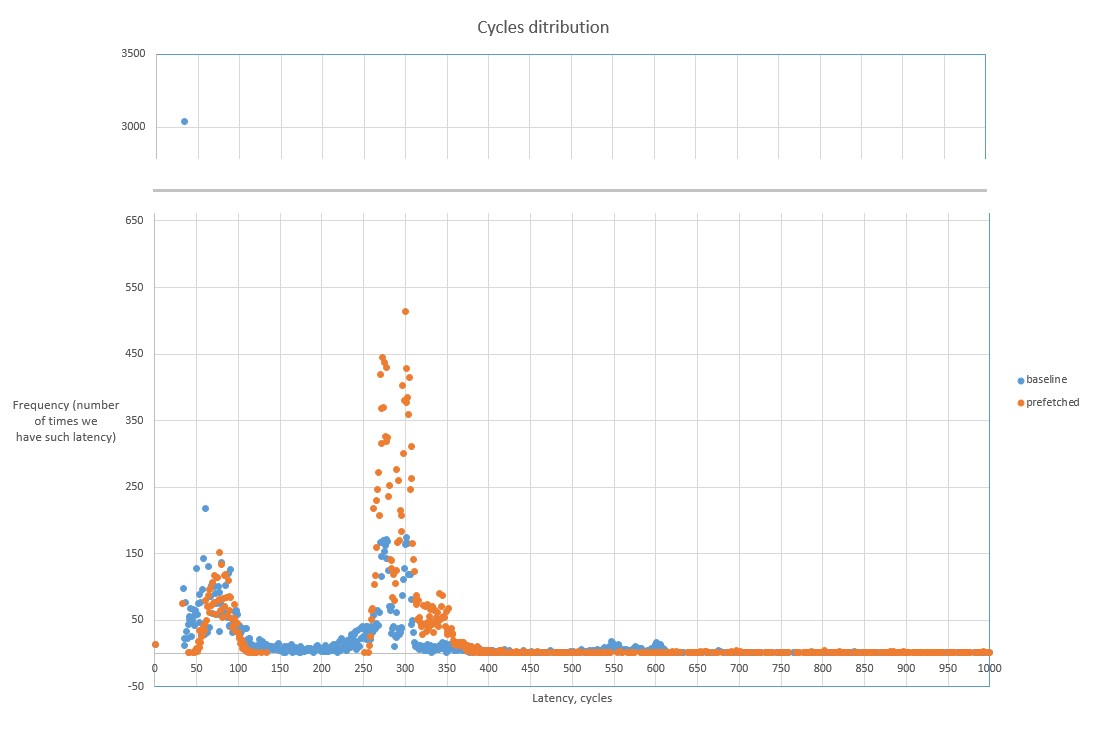
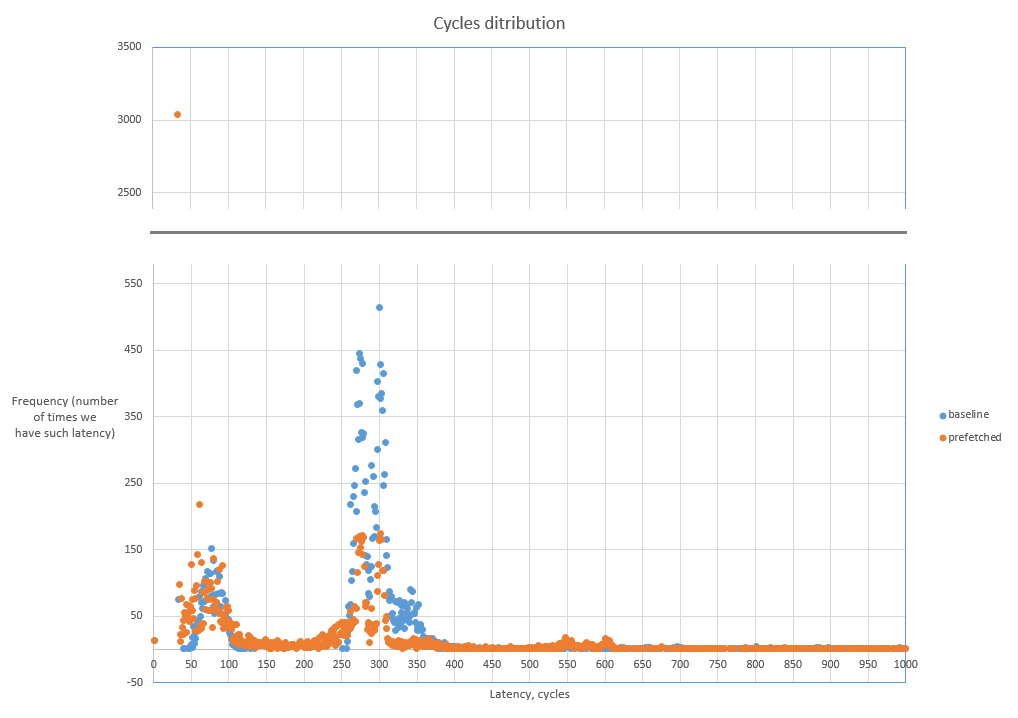
Fixed chart.

diff --git a/_posts/2019-04-03-Precise-timing-of-machine-code-with-Linux-perf.md b/_posts/2019-04-03-Precise-timing-of-machine-code-with-Linux-perf.md
@@ -172,7 +172,7 @@ Here is combined plot with original (baseline) and improved (prefetched) cases:
 
 ![](/img/posts/TimingBasicBlocks/chart_pref.png){: .center-image }
 
-You see, we lowered the spike around 300 cycles and shifted both spikes to the left which is good (towards lower latencies). Also notice a blue dot for 32 cycles latency which has frequency around 3000 times. That means we now have hits in the cache much more frequently. See more details about cache misses statistics in my previous [article](https://dendibakh.github.io/blog/2019/02/09/Top-Down-performance-analysis-methodology).
+You see, we lowered the spike around 300 cycles and shifted both spikes to the left which is good (towards lower latencies). Also notice the orange dot for 32 cycles latency which has frequency around 3000 times. That means we now have much less cycles that are wasted due to demanding load that misses in caches. See more details about cache misses statistics for this exact case in my previous article about [Top-Down Analysis methodology](https://dendibakh.github.io/blog/2019/02/09/Top-Down-performance-analysis-methodology).
 
 **That's all. Hope you enjoyed and found it useful! Good luck in using this powerful feature!**
 
